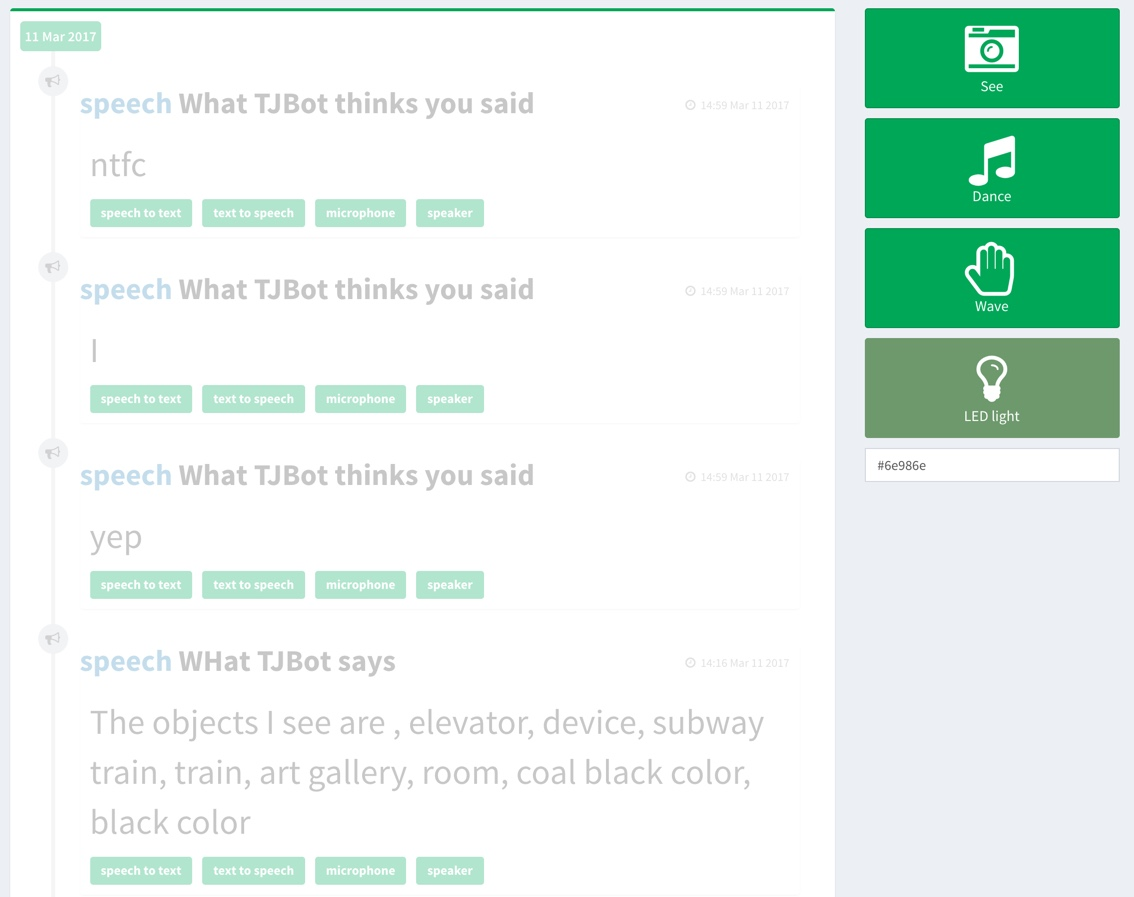
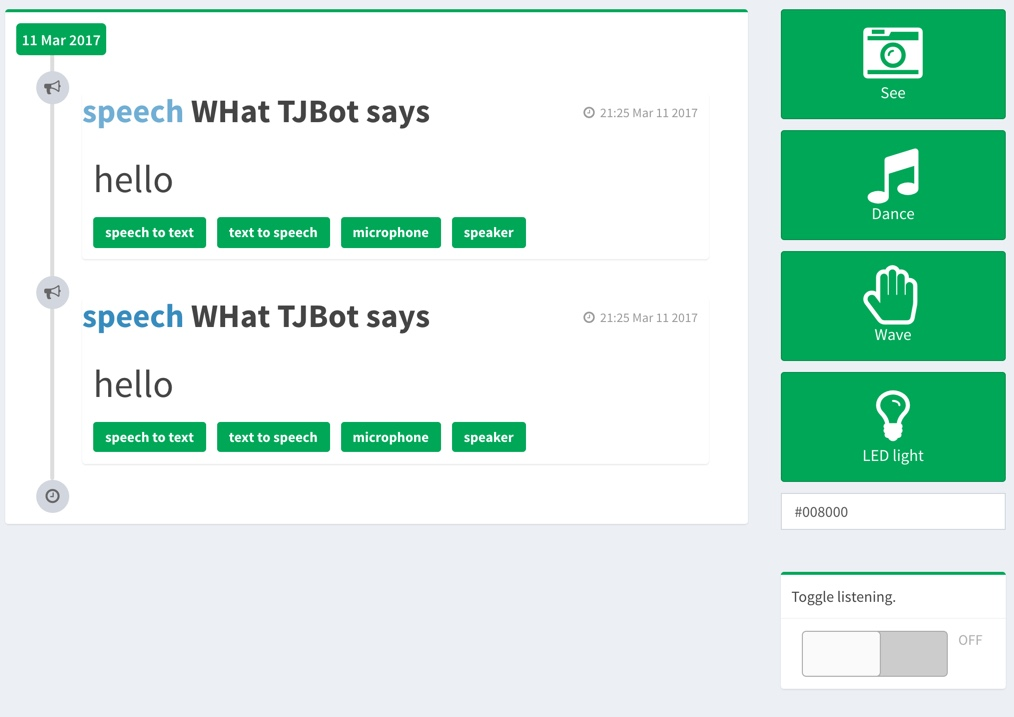
ui and server update

diff --git a/mactest.js b/mactest.js
@@ -23,7 +23,7 @@ server.wss.on('connection', function connection(ws) {
 
             case 'see':
                 //see()
-                logVision();
+                logSpeak();
                 break;
 
             case 'led':
